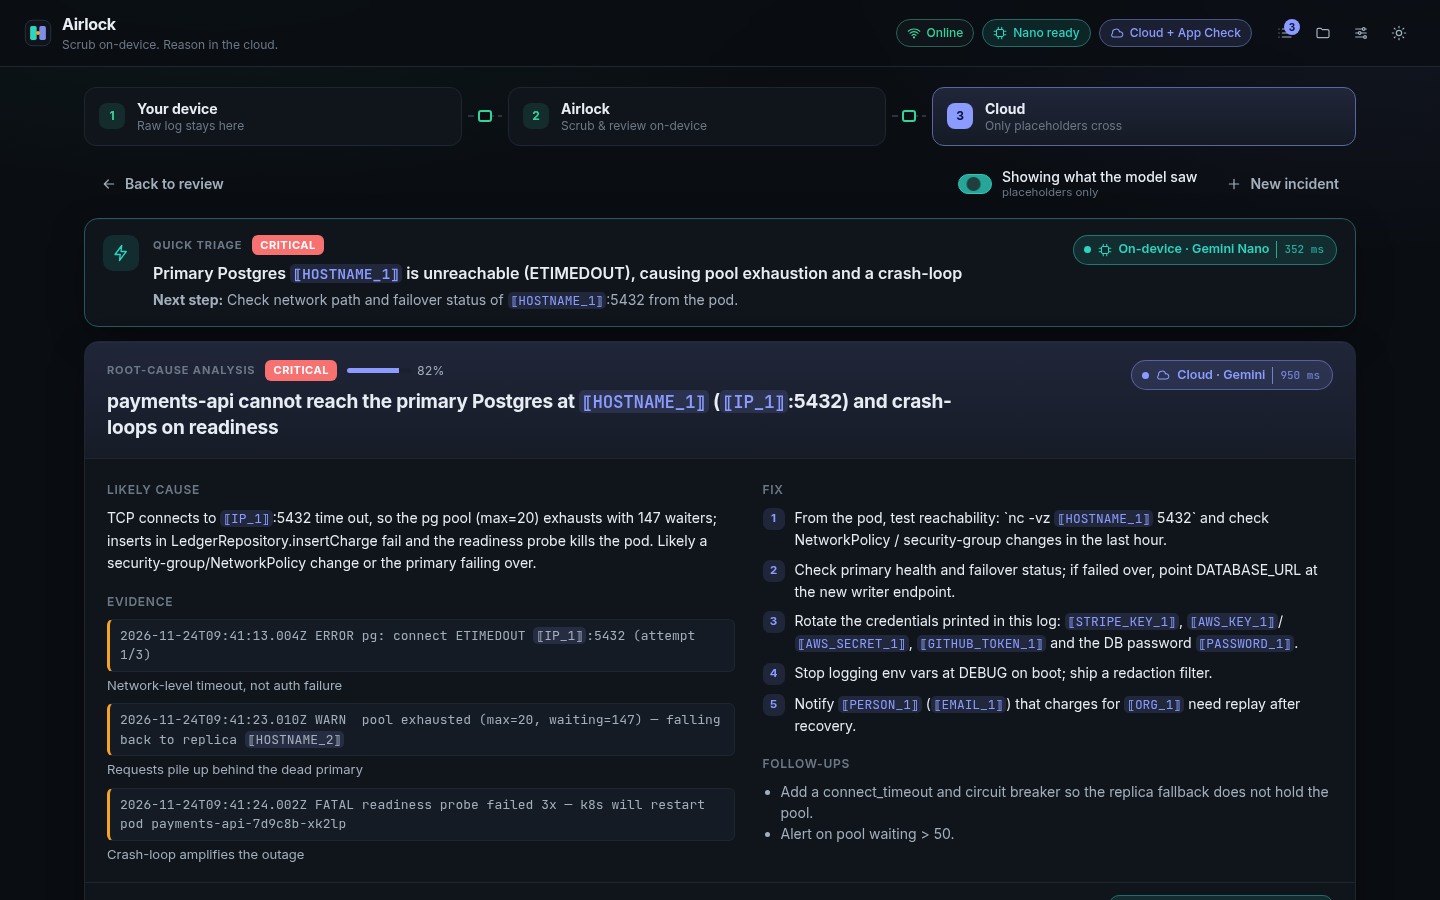
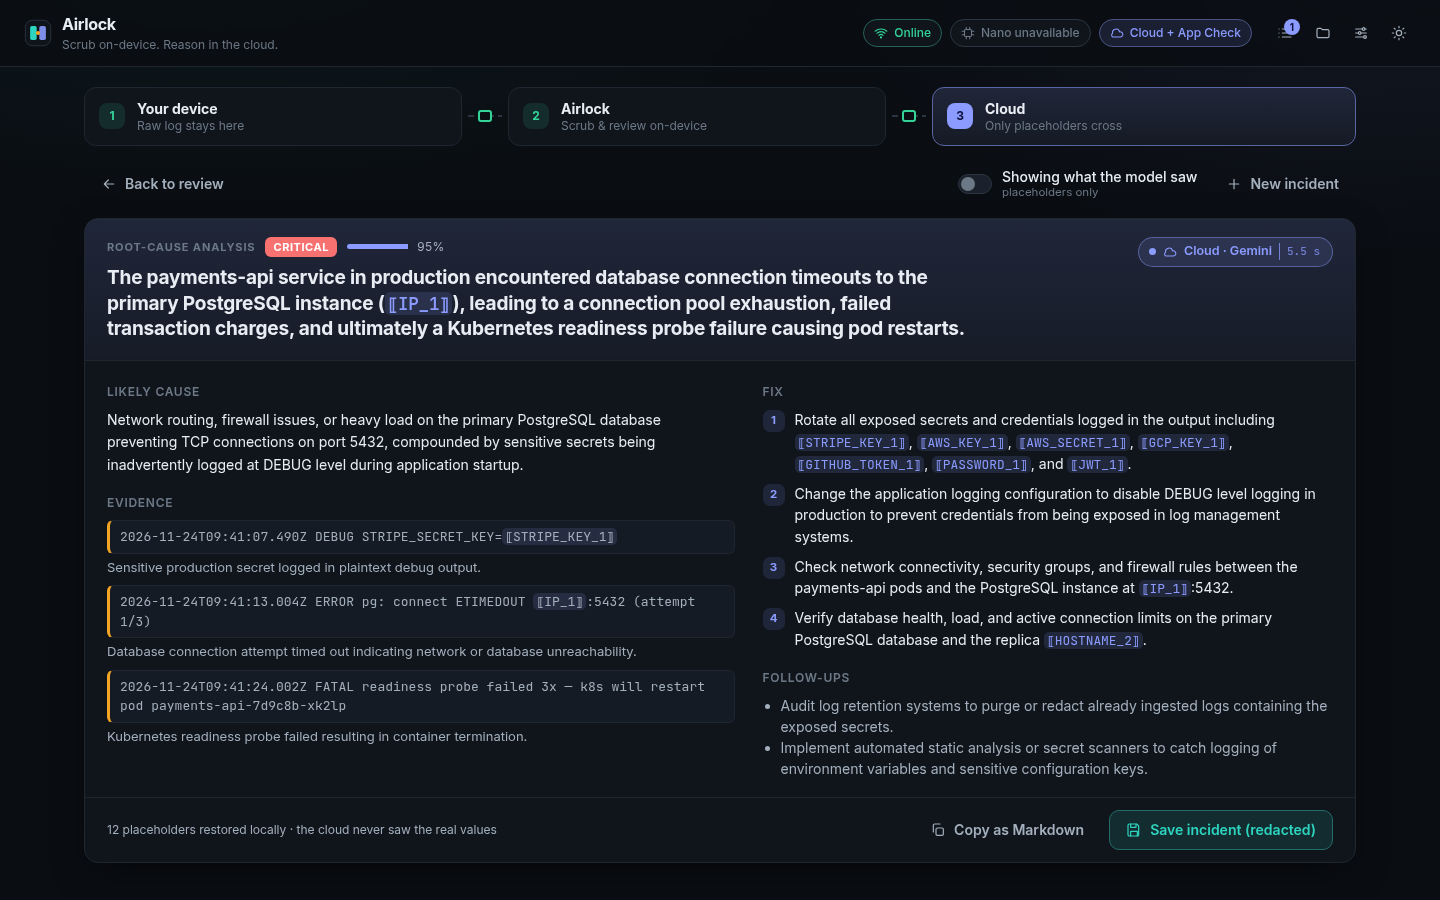
Retake screenshots 11-15 from the live site

diff --git a/README.md b/README.md
@@ -121,7 +121,7 @@ npm run build:ext    # Chrome extension to dist-ext/ (load unpacked in chrome://
 
 - `npm test`: **45 unit tests** covering every detector (including false-positive cases: stack-frame file names, Java packages, git SHAs, timestamps, version strings), placeholder dedupe, toggles, round-trip rehydration of the full demo log, the egress guard, chunking, and Remote Config parsing.
 - [scripts/shots.mjs](scripts/shots.mjs): drives the real UI in Chromium and saves screenshots (dark, light, offline, 390 px mobile with no horizontal scroll).
-- [scripts/e2e-mocked.mjs](scripts/e2e-mocked.mjs): runs the full flow against the **real Firebase AI Logic SDK**, with Chrome's `LanguageModel` stubbed and the Gemini/App Check endpoints intercepted. It checks that the badges read `on_device` for triage and `in_cloud` for analysis, that **zero raw values appear in any intercepted cloud request body**, that rehydration restores the real values, and that Analyze is disabled while offline. Screenshots `11`–`15` come from this mocked run. Retake them against the live project for the submission.
+- [scripts/e2e-mocked.mjs](scripts/e2e-mocked.mjs): runs the full flow against the **real Firebase AI Logic SDK**, with Chrome's `LanguageModel` stubbed and the Gemini/App Check endpoints intercepted. It checks that the badges read `on_device` for triage and `in_cloud` for analysis, that **zero raw values appear in any intercepted cloud request body**, that rehydration restores the real values, and that Analyze is disabled while offline. Screenshots `11`–`15` in `submission/screenshots/` were retaken from the live site (real Gemini calls; no Gemini Nano on the capture machine, so Quick triage shows its cloud fallback).
 - [scripts/ext-shot.mjs](scripts/ext-shot.mjs): loads the built extension, simulates the context-menu hand-off, and screenshots the side panel.
 
 ## Project layout

diff --git a/OWNER_STEPS.md b/OWNER_STEPS.md
@@ -88,7 +88,7 @@ Follow `submission/video-script.md`. You need:
 - The live URL with App Check enforced.
 - DevTools → Network panel visible for the network-off shot (or turn off Wi-Fi).
 
-Then retake `submission/screenshots/11-…` to `15-…` against the live project. The current ones come from the mocked run.
+Screenshots `11-…` to `15-…` were retaken from the live project (no Gemini Nano on the capture machine). Record the on-device clip in a Chrome with Nano for the video slot.
 
 Upload to YouTube (public or unlisted).
 
